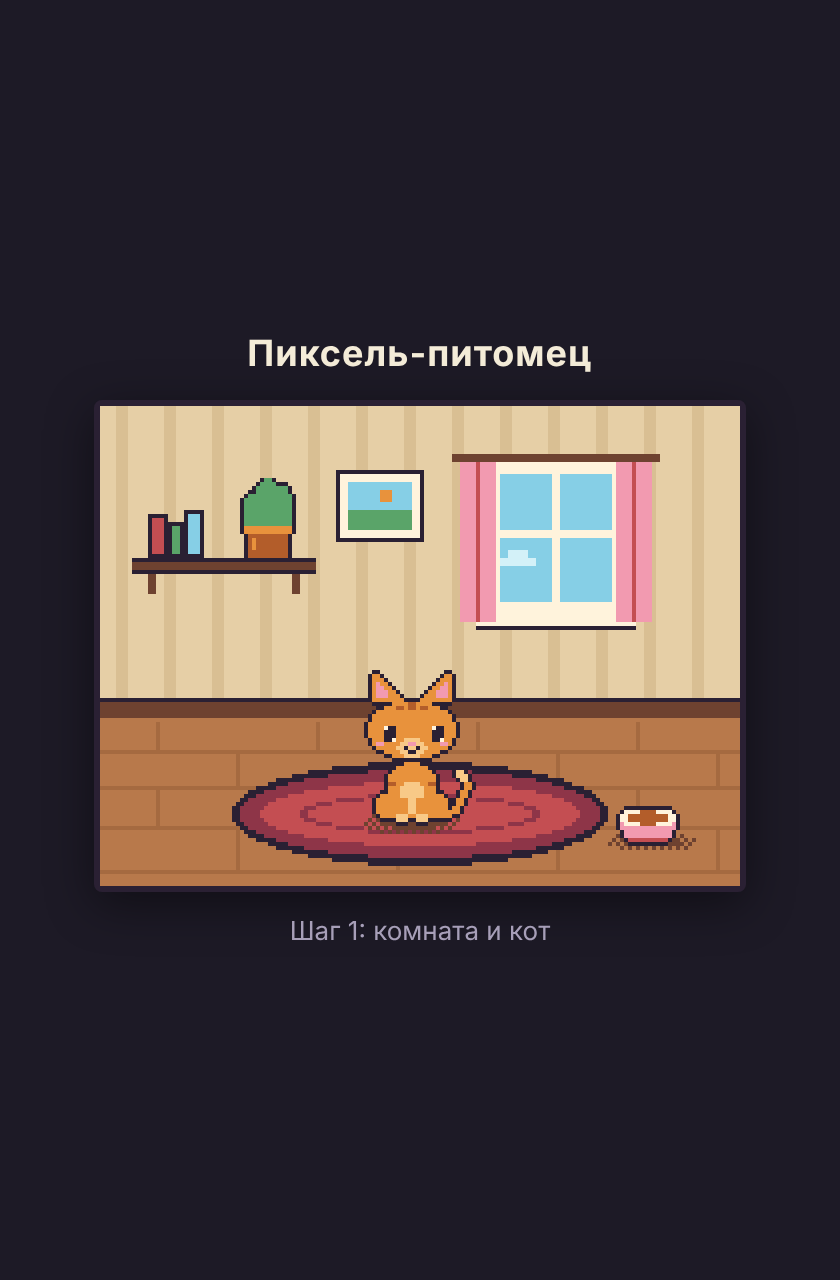
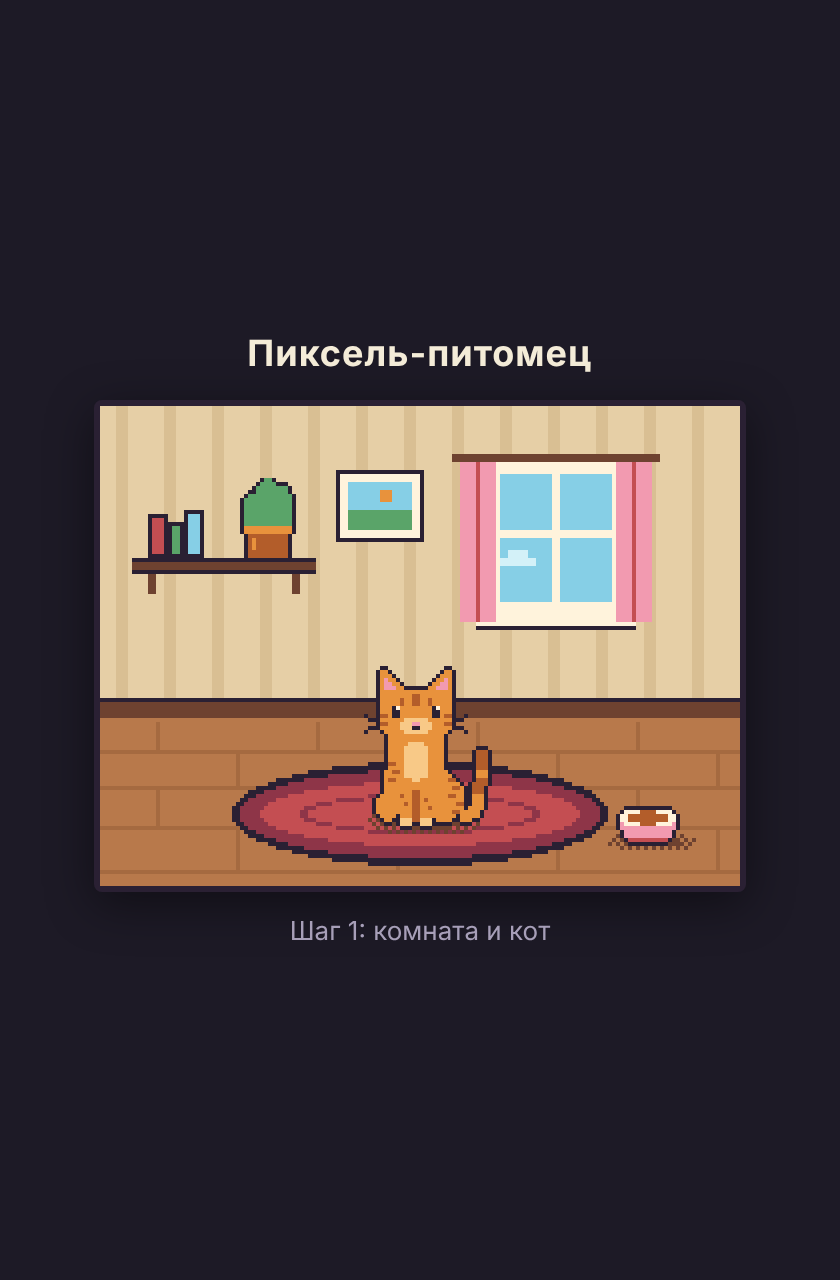
Кот: силуэт как на референсе — вытянутое тело, усы, хвост столбиком
Claude-Session: https://claude.ai/code/session_01Qao8M8JoHe6UePoZCqr7mk

Changed region(s): [[0.4333, 0.5, 0.5881, 0.6562]]

diff --git a/pixel-pet/js/sprites.js b/pixel-pet/js/sprites.js
@@ -59,49 +59,65 @@
     fillEllipse(ctx, cx, cy, rx * 0.65, ry * 0.6, 'wood', false);
   }
 
-  // ---- Кот (сидит, анфас, пропорции «чиби»: большая голова, маленькое тело) ----
+  // ---- Кот (сидит прямо, как на референсе: вытянутое тело, острые уши, усы, хвост столбиком) ----
   const catCache = {};
   function cat(o) {
     const key = (o.breath ? 1 : 0) + '|' + (o.blink ? 1 : 0) + '|' + o.tail;
     if (catCache[key]) return catCache[key];
-    const B = new Buf(44, 44), hb = o.breath ? 1 : 0;
-    // тонкий хвост (2×2), загибается вверх, кончик светлый и качается
-    const pts = [[26, 37], [28, 37], [30, 36], [31, 34], [32, 32], [32, 30], [31, 28], [30, 27]];
+    const B = new Buf(44, 46), hb = o.breath ? 1 : 0;
+    const mir = x => 39 - x; // зеркало относительно оси головы
+
+    // хвост (3×3 звенья), поднимается вверх; верхняя часть качается
+    const pts = [[31, 38], [33, 37], [34, 35], [34, 33], [34, 31], [34, 29], [34, 27], [34, 25], [34, 23]];
     pts.forEach((p, i) => {
-      const dx = Math.round(o.tail * (i >= 3 ? (i - 2) / 5 : 0));
-      B.rect(p[0] + dx, p[1], 2, 2, i >= 6 ? 'orangeLight' : 'orange');
+      const dx = Math.round(o.tail * (i >= 3 ? (i - 2) / 6 : 0));
+      B.rect(p[0] + dx, p[1], 3, 3, i >= 7 || i === 4 || i === 5 ? 'orangeDark' : 'orange');
     });
-    // маленькое тело
-    B.ellipse(20, 32, 6.5, 7, 'orange');
-    B.ellipse(14, 36, 3, 3.5, 'orange'); B.ellipse(26, 36, 3, 3.5, 'orange');
-    B.ellipse(20, 34, 3.5, 4, 'orangeLight');
-    B.rect(16, 34, 3, 6, 'orange'); B.rect(21, 34, 3, 6, 'orange');
-    B.rect(16, 38, 3, 2, 'orangeLight'); B.rect(21, 38, 3, 2, 'orangeLight');
-    B.rect(14, 30, 2, 1, 'orangeDark'); B.rect(24, 30, 2, 1, 'orangeDark');
-    // острые ушки
-    [[10, 11], [10, 12], [10, 13], [10, 14], [10, 15], [10, 16], [10, 17]].forEach((r, i) => {
-      const y = 3 + i + hb;
-      B.rect(r[0], y, r[1] - r[0] + 1, 1, 'orange');
-      B.rect(39 - r[1], y, r[1] - r[0] + 1, 1, 'orange');
+
+    // тело: торс, бёдра, грудка
+    B.ellipse(20, 31, 8, 9, 'orange');
+    B.rect(13, 19, 14, 8, 'orange');
+    B.ellipse(27, 35, 5, 6, 'orange'); B.ellipse(13, 37, 3, 4, 'orange');
+    B.ellipse(20, 26, 3.5, 5.5, 'orangeLight');
+    // передние лапы + тень между ними
+    B.rect(16, 30, 3, 11, 'orange'); B.rect(21, 30, 3, 11, 'orange');
+    B.rect(19, 33, 2, 8, 'orangeDark');
+    B.rect(16, 40, 3, 2, 'orangeLight'); B.rect(21, 40, 3, 2, 'orangeLight');
+    // полоски
+    [[13, 26], [14, 28], [13, 30], [28, 30], [29, 32], [28, 34], [30, 36], [29, 38]].forEach(p => B.rect(p[0], p[1], 2, 1, 'orangeDark'));
+    B.set(16, 34, 'orangeDark'); B.set(17, 36, 'orangeDark'); B.set(22, 35, 'orangeDark'); B.set(23, 37, 'orangeDark');
+
+    // уши
+    [[11, 12], [11, 13], [11, 14], [11, 15], [11, 16], [11, 16]].forEach((r, i) => {
+      const y = 3 + i + hb, w = r[1] - r[0] + 1;
+      B.rect(r[0], y, w, 1, 'orange'); B.rect(mir(r[1]), y, w, 1, 'orange');
     });
-    [[5, 11, 11], [6, 11, 12], [7, 11, 13], [8, 11, 13]].forEach(e => {
-      B.rect(e[1], e[0] + hb, e[2] - e[1] + 1, 1, 'pink');
-      B.rect(39 - e[2], e[0] + hb, e[2] - e[1] + 1, 1, 'pink');
+    [[5, 12, 12], [6, 12, 13], [7, 12, 14]].forEach(e => {
+      const w = e[2] - e[1] + 1;
+      B.rect(e[1], e[0] + hb, w, 1, 'pink'); B.rect(mir(e[2]), e[0] + hb, w, 1, 'pink');
     });
-    // широкая голова
-    B.ellipse(20, 17 + hb, 11, 7.5, 'orange');
-    B.rect(19, 10 + hb, 2, 2, 'orangeDark'); B.rect(16, 11 + hb, 2, 1, 'orangeDark'); B.rect(22, 11 + hb, 2, 1, 'orangeDark');
-    B.ellipse(20, 21.5 + hb, 3.5, 2.5, 'orangeLight');
-    // большие глаза с бликами
-    [13, 25].forEach(x => {
-      if (o.blink) B.rect(x, 18 + hb, 3, 1, 'ink');
-      else { B.rect(x, 16 + hb, 3, 4, 'ink'); B.set(x, 16 + hb, 'cream'); B.set(x + 2, 19 + hb, 'cream'); }
+    // голова (чуть квадратная)
+    B.rect(13, 8 + hb, 14, 1, 'orange');
+    B.rect(11, 9 + hb, 18, 9, 'orange');
+    B.rect(12, 18 + hb, 16, 1, 'orange'); B.rect(14, 19 + hb, 12, 1, 'orange');
+    // лоб и щёки в полоску
+    B.rect(19, 9 + hb, 2, 3, 'orangeDark'); B.rect(16, 10 + hb, 1, 2, 'orangeDark'); B.rect(23, 10 + hb, 1, 2, 'orangeDark');
+    [[11, 14], [11, 16], [27, 14], [27, 16]].forEach(p => B.rect(p[0], p[1] + hb, 2, 1, 'orangeDark'));
+    // светлая мордочка
+    [[15, 17, 22], [16, 16, 23], [17, 16, 23], [18, 17, 22]].forEach(m => B.rect(m[1], m[0] + hb, m[2] - m[1] + 1, 1, 'orangeLight'));
+    // глаза: 2×3 с бликом
+    [14, 24].forEach(x => {
+      if (o.blink) B.rect(x, 14 + hb, 2, 1, 'ink');
+      else { B.rect(x, 12 + hb, 2, 3, 'ink'); B.set(x + 1, 12 + hb, 'cream'); }
     });
-    B.rect(11, 20 + hb, 2, 1, 'pink'); B.rect(27, 20 + hb, 2, 1, 'pink'); // румянец
-    B.rect(19, 20 + hb, 2, 1, 'pink');                                      // носик
-    B.set(18, 21 + hb, 'ink'); B.set(21, 21 + hb, 'ink');                   // ротик «w»
-    B.set(19, 22 + hb, 'ink'); B.set(20, 22 + hb, 'ink');
+    B.rect(19, 16 + hb, 2, 1, 'pink');                         // нос
+    B.set(19, 17 + hb, 'ink'); B.set(20, 17 + hb, 'ink');      // рот
+
     B.outline('ink');
+    // усы — поверх контура
+    [[9, 15], [8, 15], [7, 14], [9, 17], [8, 17], [7, 18]].forEach(p => {
+      B.set(p[0], p[1] + hb, 'ink'); B.set(mir(p[0]), p[1] + hb, 'ink');
+    });
     return (catCache[key] = B.toCanvas());
   }
 

diff --git a/pixel-pet/js/pet.js b/pixel-pet/js/pet.js
@@ -2,7 +2,7 @@
 (function () {
   const Pet = {
     type: 'cat', name: 'Мурзик',
-    x: 58, y: 64, // левый верхний угол спрайта 44×44; лапы на y+39
+    x: 59, y: 63, // левый верхний угол спрайта 44×46; лапы на y+41
     // Анимационные параметры по времени (мс)
     anim(t) {
       return {
@@ -13,7 +13,7 @@
     },
     draw(ctx, t) {
       const a = this.anim(t);
-      window.Sprites.shadow(ctx, this.x + 20, this.y + 40, 12, 3.5);
+      window.Sprites.shadow(ctx, this.x + 22, this.y + 41, 14, 3.5);
       ctx.drawImage(window.Sprites.cat(a), this.x, this.y);
     }
   };
